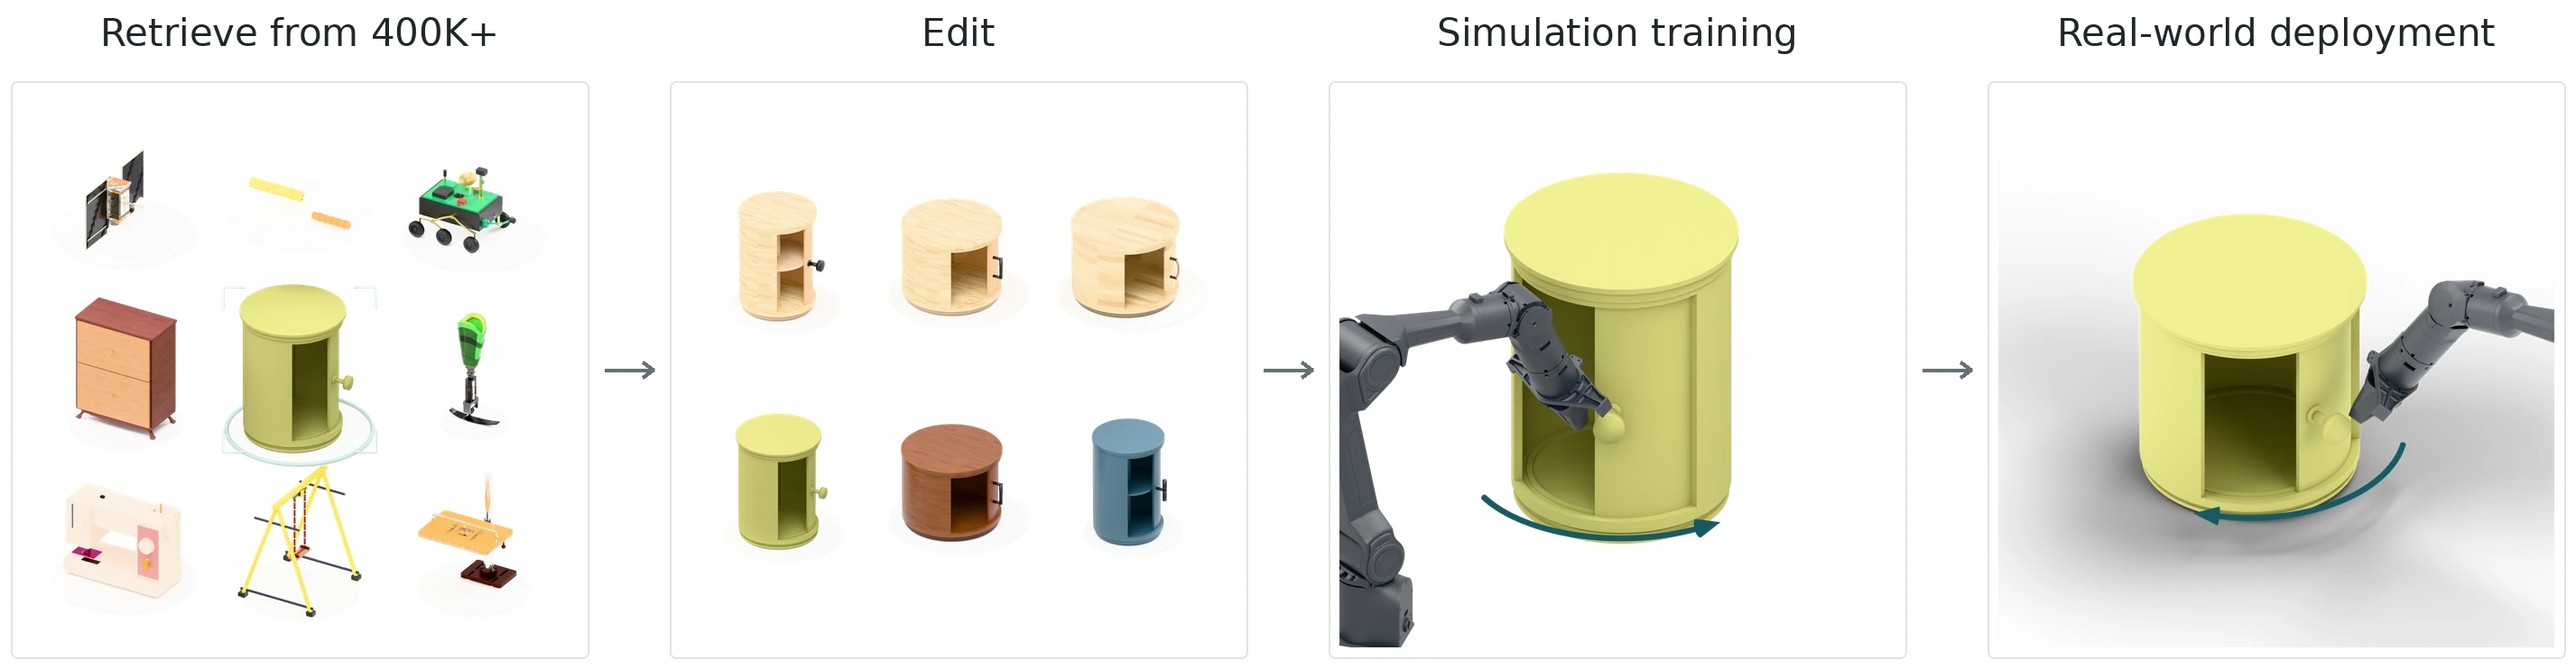
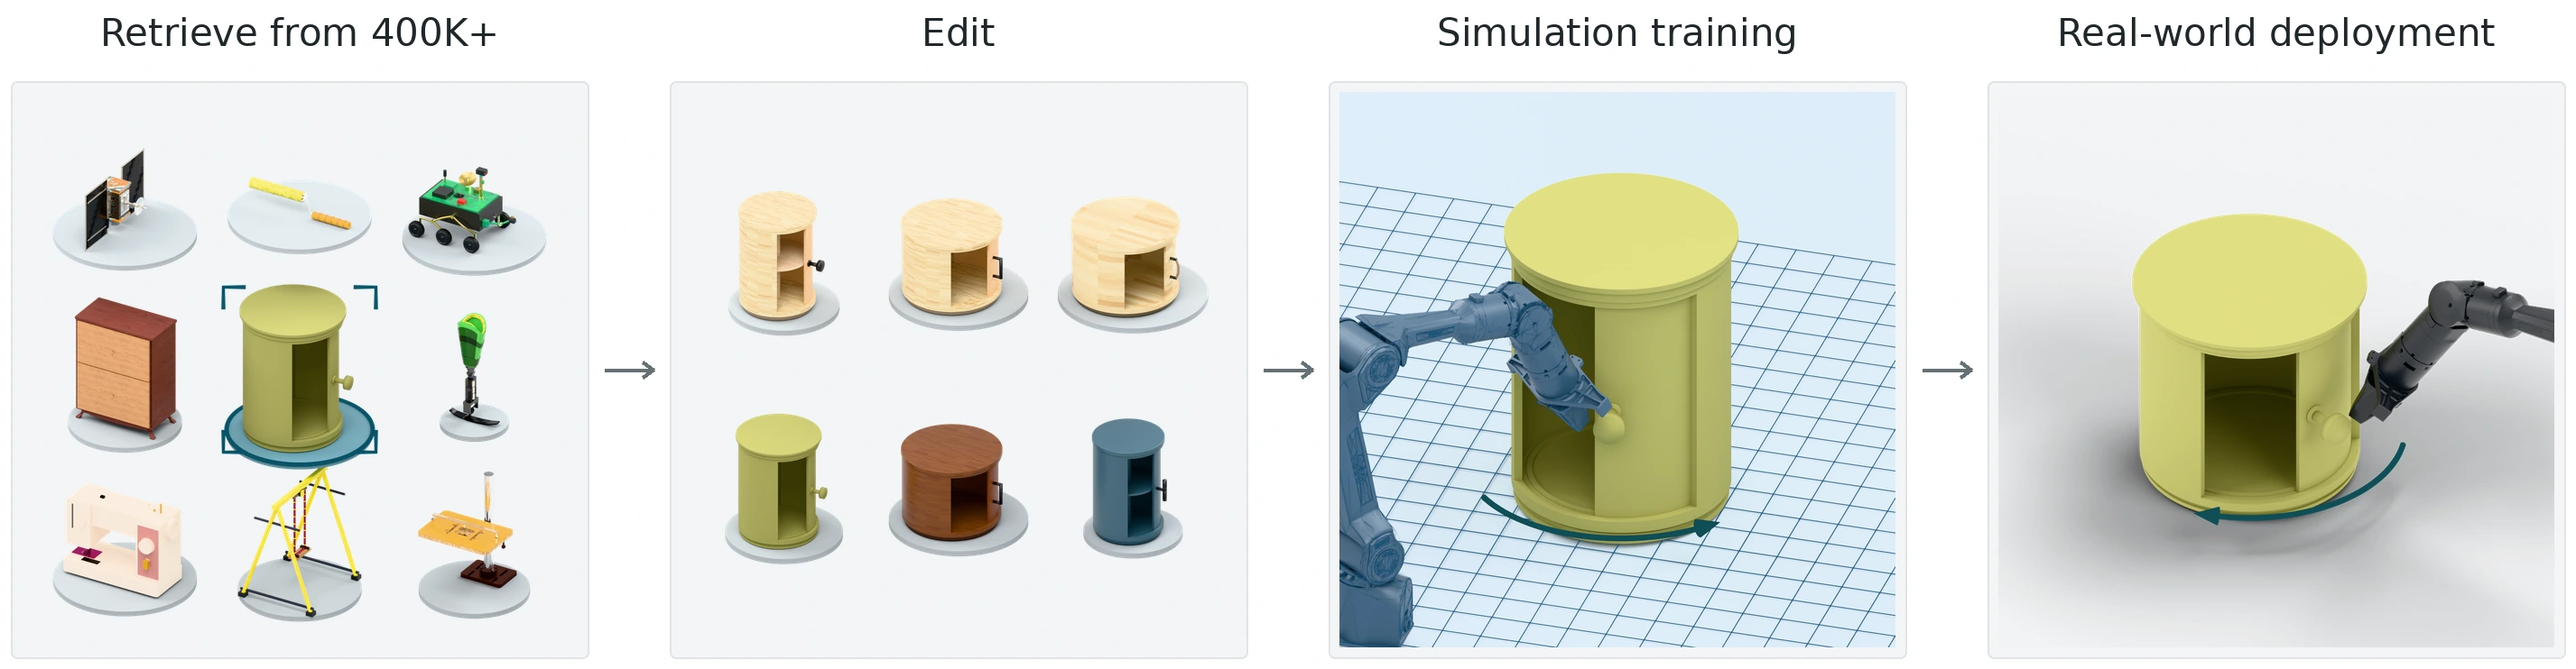
Restore visible trays and selection with blue simulation grid styling

diff --git a/index.html b/index.html
@@ -81,7 +81,7 @@
 <section class="section results-section" id="validation"><div class="wrap"><div class="section-heading"><div><h2>Physical validation</h2></div><p>Kinematic validity, simulator import, and stable rollouts.</p></div><div class="validation-cards"><article><span class="mono">KINEMATIC VALIDITY</span><strong>100.0<span>%</span></strong><p>Full-release assets passing the kinematic validity check.</p></article><article><span class="mono">SIMULATOR IMPORT</span><strong>100.0<span>%</span></strong><p>Core-200 assets imported across the evaluated simulators.</p></article><article><span class="mono">STABLE ROLLOUT</span><strong>99.5<span>%</span></strong><p>One-second stable rollouts on Core-200.</p></article></div><div class="benchmark" id="benchmark"><div class="benchmark-label"><h3>Results</h3><p>Dataset scale, asset quality, and articulation estimation. Select a column to sort.</p></div><div class="benchmark-toolbar"><div class="pill-tabs" role="tablist" aria-label="Result group"><button role="tab" aria-selected="true" data-result="scale">Dataset scale</button><button role="tab" aria-selected="false" data-result="validity">Asset quality</button><button role="tab" aria-selected="false" data-result="transfer">Articulation estimation</button></div><label id="split-control" hidden>Evaluation split <select id="split-select"><option value="ood">Category OOD</option><option value="in">In-domain</option></select></label></div><div class="table-scroll" tabindex="0" role="region" aria-label="Paper results table"><table id="results-table"></table></div><p class="table-note" id="results-note"></p></div><details class="qualitative"><summary>Qualitative results <span>＋</span></summary><img src="./media/articulation.webp" loading="lazy" alt="Qualitative comparison of PM-only, PM plus Articraft, PM plus RFW-A-400K and ground truth"/></details></div></section>
 <section class="section wrap robotics-section" id="sim2real" aria-labelledby="robotics-title">
  <div class="section-heading"><h2 id="robotics-title">Robotic manipulation</h2></div>
- <button class="robotics-flow" data-lightbox="media/robotics-flow.webp?v=5cdacda4babb" data-lightbox-mobile="media/robotics-flow-mobile.webp?v=cd71293d7ff9" data-caption="Retrieve → optionally edit → train in simulation → deploy zero-shot. Rendered close-ups illustrate opening and closing; real-world trials are shown below." aria-label="Enlarge the robotic manipulation workflow"><picture><source media="(max-width: 760px)" srcset="./media/robotics-flow-mobile.webp?v=cd71293d7ff9" width="1394" height="1612"/><img src="./media/robotics-flow.webp?v=5cdacda4babb" width="2854" height="742" loading="lazy" alt="Retrieve a half-open yellow cabinet from a diverse 400K+ pool; six half-open edit examples vary proportions, handles, interiors and light wood, yellow, walnut and blue-gray finishes. A dark Piper opens the taller cabinet against a clean background; a deployment schematic shows a dark arm closing a shorter cabinet with a soft contact shadow. All panels are rendered method illustrations."/></picture><span aria-hidden="true">Enlarge ↗</span></button>
+ <button class="robotics-flow" data-lightbox="media/robotics-flow.webp?v=0ec43737d23e" data-lightbox-mobile="media/robotics-flow-mobile.webp?v=419b8ece50e4" data-caption="Retrieve → optionally edit → train in simulation → deploy zero-shot. Rendered close-ups illustrate opening and closing; real-world trials are shown below." aria-label="Enlarge the robotic manipulation workflow"><picture><source media="(max-width: 760px)" srcset="./media/robotics-flow-mobile.webp?v=419b8ece50e4" width="1394" height="1612"/><img src="./media/robotics-flow.webp?v=0ec43737d23e" width="2854" height="742" loading="lazy" alt="Retrieve a half-open yellow cabinet from a diverse 400K+ pool; six half-open edit examples vary proportions, handles, interiors and light wood, yellow, walnut and blue-gray finishes. A blue-gray Piper with mesh lines opens the taller cabinet over a blue simulation grid; a deployment schematic shows a darker arm closing a shorter cabinet against a plain background with a soft contact shadow. All panels are rendered method illustrations."/></picture><span aria-hidden="true">Enlarge ↗</span></button>
  <div id="robotics-picker" class="robotics-picker" role="group" aria-label="Choose a manipulation task"></div>
  <div class="robotics-playback"><h3 id="robotics-selection" aria-live="polite">Cabinet</h3><div><button id="robotics-play" aria-controls="robotics-grid">Play videos</button><button id="robotics-replay" aria-controls="robotics-grid">Replay</button></div></div>
  <p id="task-description" class="robotics-description">Open the cabinet door with the left arm, then close it with the right arm.</p>

diff --git a/scripts/render_robotics_workflow.py b/scripts/render_robotics_workflow.py
@@ -218,7 +218,12 @@ def camera(direction, target=(0, 0, 0), scale=3.65):
 
 
 WHITE = material('Porcelain', (.91, .92, .93), roughness=.72)
-EDGE = material('Selected asset', (.28, .36, .35), roughness=.6)
+TRAY = material('Visible matte gray trays', (.30, .33, .35), roughness=.85)
+SELECTED_TRAY = material('Selected blue gray tray', (.10, .23, .29), roughness=.75)
+EDGE = material('Selected asset', (.018, .095, .14), roughness=1)
+edge_shader = EDGE.node_tree.nodes.new('ShaderNodeEmission')
+edge_shader.inputs['Color'].default_value = (.018, .095, .14, 1)
+EDGE.node_tree.links.new(edge_shader.outputs[0], EDGE.node_tree.nodes.get('Material Output').inputs['Surface'])
 
 
 def cabinet(variant='crown_molding', q=.98):
@@ -298,8 +303,8 @@ def tile(root, meshes, sx, sy, right, up, size=.8, fixed_scale=None, selected=Fa
     # A small local plinth catches light under each item without a busy background.
     cx, cy = ((lo + hi) / 2)[:2]
     radius = max(hi.x - lo.x, hi.y - lo.y) * .62
-    bpy.ops.mesh.primitive_cylinder_add(vertices=96, radius=radius, depth=.018, location=(cx, cy, lo.z - .014))
-    bpy.context.object.data.materials.append(WHITE)
+    bpy.ops.mesh.primitive_cylinder_add(vertices=96, radius=radius, depth=.034, location=(cx, cy, lo.z - .018))
+    bpy.context.object.data.materials.append(SELECTED_TRAY if selected else TRAY)
     if selected:
         pts = [(cx + radius * math.cos(i * 2 * math.pi / 128), cy + radius * math.sin(i * 2 * math.pi / 128), lo.z) for i in range(129)]
         line('Retrieved cabinet highlight', pts, EDGE, .014)
@@ -340,7 +345,7 @@ def retrieval():
     forward = cam.location.normalized() * 2
     for xsign, ysign in [(-1, -1), (-1, 1), (1, -1), (1, 1)]:
         points = [(xsign * .48, ysign * .38), (xsign * .48, ysign * .52), (xsign * .34, ysign * .52)]
-        line('Selected candidate', [forward + right*x + up*y for x, y in points], EDGE, .008)
+        line('Selected candidate', [forward + right*x + up*y for x, y in points], EDGE, .013)
 
 
 def edits():
@@ -422,7 +427,8 @@ def robot_scene(deploy=False):
     knob_origin = source_xml.find("link[@name='curved_door']/visual[@name='knob_cap']/origin")
     handle_height = vec(knob_origin.get('xyz'))[2]
     arm_offset = .66 * handle_height * (height_scale - 1)
-    hardware = material('Native Isaac Piper finish', (.018, .022, .028), .0, .5)
+    hardware_rgb = (.006, .008, .011) if deploy else (.035, .075, .12)
+    hardware = material('Dark physical hardware' if deploy else 'Blue simulation hardware', hardware_rgb, .12, .45)
     for side, arm in p['arms'].items():
         joints = dict(zip(['joint' + str(i) for i in range(1, 7)], arm['joint_pos_rad']))
         joints.update(dict(zip(['gripper', 'gripper_joint1', 'gripper_joint2'], arm['gripper_joint_pos_m'])))
@@ -462,14 +468,41 @@ def robot_scene(deploy=False):
                     matrix[2][j] /= height_scale
                 ob.matrix_world = matrix
         bpy.context.view_layer.update()
-    # No visible tabletop or grid. Deployment alone has a soft contact shadow
-    # on an invisible catcher to distinguish it from the clean simulation view.
+    # Simulation grid and blue mesh overlay are schematic visual cues.
+    # Deployment keeps a plain background and soft contact shadow.
     if deploy:
         bpy.ops.mesh.primitive_plane_add(size=200, location=(0, 0, .737))
         floor = bpy.context.object
         floor.name = 'Invisible deployment shadow catcher'
         floor.is_shadow_catcher = True
         floor.data.materials.append(WHITE)
+    else:
+        grid = material('Blue simulation grid', (.025, .09, .18), roughness=1)
+        shader = grid.node_tree.nodes.new('ShaderNodeEmission')
+        shader.inputs['Color'].default_value = (.035, .12, .23, 1)
+        grid.node_tree.links.new(shader.outputs[0], grid.node_tree.nodes.get('Material Output').inputs['Surface'])
+        bpy.ops.mesh.primitive_plane_add(size=200, location=(0, 0, .736))
+        bpy.context.object.name = 'Simulation ground, no tabletop'
+        bpy.context.object.data.materials.append(material('Cool simulation ground', (.46, .55, .63), roughness=.9))
+        for i in range(-20, 21):
+            v = i * .05
+            line('Simulation grid X', [(v, -1, .738), (v, 1, .738)], grid, .00065)
+            line('Simulation grid Y', [(-1, v, .738), (1, v, .738)], grid, .00065)
+        for ob in list(bpy.context.scene.objects):
+            if ob.type == 'MESH' and ob.get('link_name') and not ob.get('workflow_cabinet') and not ob.hide_render:
+                overlay = ob.copy()
+                overlay.data = ob.data.copy()
+                bpy.context.collection.objects.link(overlay)
+                overlay.name = 'Simulation topology ' + ob.name
+                overlay.data.materials.clear()
+                overlay.data.materials.append(grid)
+                dec = overlay.modifiers.new('Readable topology', 'DECIMATE')
+                dec.ratio = .06
+                wire = overlay.modifiers.new('Blue mesh edges', 'WIREFRAME')
+                wire.thickness = .00035
+                wire.use_even_offset = False
+                wire.use_relative_offset = False
+                wire.offset = 1
     motion_arrow(raw[:3], opening=not deploy)
     camera((-3.0, 2.0, 2.5) if deploy else (-3.0, -.9, 1.8),
            target=(.30, .025, .90 if deploy else .945), scale=.70)
@@ -477,13 +510,13 @@ def robot_scene(deploy=False):
     audit['contact_shadow'] = deploy
     audit['illustration_only'] = True
     audit['cabinet_finish'] = 'native video USD materials with documented Blender display calibration'
-    audit['simulation_grid'] = False
+    audit['simulation_grid'] = not deploy
     audit['cabinet_height_scale'] = height_scale
     audit['active_arm_presentation_translation_m'] = [0, 0, arm_offset]
     audit['presentation_style'] = 'physical deployment schematic' if deploy else 'shaded simulation schematic'
-    audit['robot_finish'] = 'Isaac USD diffuse_color_constant (0.018, 0.022, 0.028)'
+    audit['robot_finish'] = 'darker physical schematic' if deploy else 'blue simulation mesh schematic'
     audit['robot_material_source'] = '/opt/isaacsim/piper_official_isaac_asset_20260827/isaac_usd/piper.usd'
-    audit['robot_diffuse_linear_rgb'] = [.018, .022, .028]
+    audit['robot_diffuse_linear_rgb'] = list(hardware_rgb)
     audit['target_material_source'] = '/opt/isaacsim/isaac_route/assets/articulated/generated/round_cabinet_crown_molding_appearance.usda'
 
 
@@ -518,7 +551,7 @@ scene.render.resolution_y = scene.render.resolution_x
 scene.render.resolution_percentage = 100
 scene.render.film_transparent = True
 scene.view_settings.view_transform = 'Khronos PBR Neutral'
-scene.view_settings.exposure = .5
+scene.view_settings.exposure = .1
 scene.render.image_settings.file_format = 'PNG'
 scene.render.image_settings.color_mode = 'RGBA'
 scene.render.filepath = str(OUT / (args.panel + '.png'))

diff --git a/scripts/compose_robotics_workflow.py b/scripts/compose_robotics_workflow.py
@@ -39,6 +39,7 @@ def frame(canvas, i, x, y, mobile=False):
     draw = ImageDraw.Draw(canvas)
     font = ImageFont.truetype(FONT, 46 if mobile else 42)
     draw.text((x+SIZE/2, y-54), TITLES[i], font=font, fill=INK, anchor='mm')
+    draw.rounded_rectangle((x, y, x+SIZE, y+SIZE), radius=7, fill='#f3f5f6')
     source = Image.open(TMP / (PANELS[i] + '.png')).convert('RGBA')
     if source.size != (1280, 1280):
         raise ValueError('Final-quality 1280px render required: ' + PANELS[i])

diff --git a/output/robotics-workflow/README.md b/output/robotics-workflow/README.md
@@ -19,24 +19,23 @@ are used inside the workflow.
    with a blue-gray coating. All use the same view and metric display scale.
    These are illustrative method examples, not six recorded experimental trials;
    the video gallery remains unchanged. Door angle is 0.98 radians.
-3. **Simulation training**: a shaded Cycles view with the dark Piper finish used
-   in the simulation USD. Frame 900 supplies the native left-Piper joint state and
-   opening angle. Cabinet scale remains 0.66, matching the simulation. The
-   background is clean white, with no tabletop, floor grid or contact shadow.
-4. **Real-world deployment**: a shaded deployment schematic with a dark right
-   Piper and a yellow target cabinet made 28% shorter at the user's request.
-   Radius and knob dimensions are preserved. The source frame-1800 forearm is
-   translated down by the changed handle height (about 53 mm), maintaining contact.
-   This is an illustration, not a recovered real-world pose or experimental image.
-   Actual real trials remain in the video gallery immediately below it.
+3. **Simulation training**: a blue-gray Piper with a fine blue mesh overlay,
+   standing over a blue simulation ground grid. These are user-requested visual
+   cues, not literal materials from the experiment videos. Frame 900 supplies
+   the native left-Piper joint state and opening angle. Cabinet scale is 0.66.
+4. **Real-world deployment**: a near-black right Piper, shorter yellow cabinet,
+   plain background and soft contact shadow. The target is 28% shorter, preserving
+   radius and knob dimensions; the arm is translated down about 53 mm to retain
+   handle contact. This is a rendered schematic, not a recovered real-world pose.
 
-Both robot panels use the same orthographic scale and dark hardware color.
-Simulation shows the taller cabinet and the left arm opening it against a clean
-white background. Deployment shows the shorter cabinet, right arm closing it,
-a higher opposite-side camera angle and a soft contact shadow. Neither has a
-visible tabletop or floor grid. An invisible shadow catcher is used only for
-deployment. The idle arm is hidden; proximal deployment-arm parts outside the
-focus area are hidden. Both remain rendered illustrations.
+Both panels use the same orthographic scale. Simulation has a taller target and
+blue grid/mesh cues; deployment uses a shorter target and darker hardware from a
+higher opposite-side viewpoint. Neither has a table. The deployment floor is an
+invisible shadow catcher. Actual real trials remain in the video gallery below.
+
+Retrieve and Edit retain visible circular matte-gray trays. The selected retrieval
+candidate has a blue-gray tray, dark perimeter ring and thick dark corner brackets.
+All panel backgrounds are a restrained light gray (#f3f5f6), rather than pure white.
 
 ### Color reproduction
 
@@ -44,11 +43,13 @@ The previous Workbench view overrode the robot with a light gray and flattened
 its appearance. This has been removed. The original Collada geometry is retained,
 but its white/gray material palette also differs from the experiment: inspection
 of the composed Piper USD shows all 16 shaders use `diffuse_color_constant`
-(0.018, 0.022, 0.028). Both panels use that dark finish in Cycles.
+(0.018, 0.022, 0.028). The current user-requested diagram differentiates simulation
+with blue-gray (0.035, 0.075, 0.12) and deployment with near-black
+(0.006, 0.008, 0.011); these are documented illustration finishes.
 
 Simply importing the cabinet USD did not reproduce Isaac's displayed yellow:
 the previous AgX/studio combination made it olive-brown. All four panels now use
-Khronos PBR Neutral, exposure +0.5 and neutral lighting. The yellow coating alone
+Khronos PBR Neutral and neutral lighting. Exposure is +0.1 for all four panels to preserve detail and prevent washed-out trays. The yellow coating alone
 has an explicitly recorded Blender display calibration from linear RGB
 (0.23, 0.19, 0.045) to (0.27, 0.265, 0.085), judged against the delivered cabinet
 video. This is a rendering compensation; the source USD and videos are untouched.
